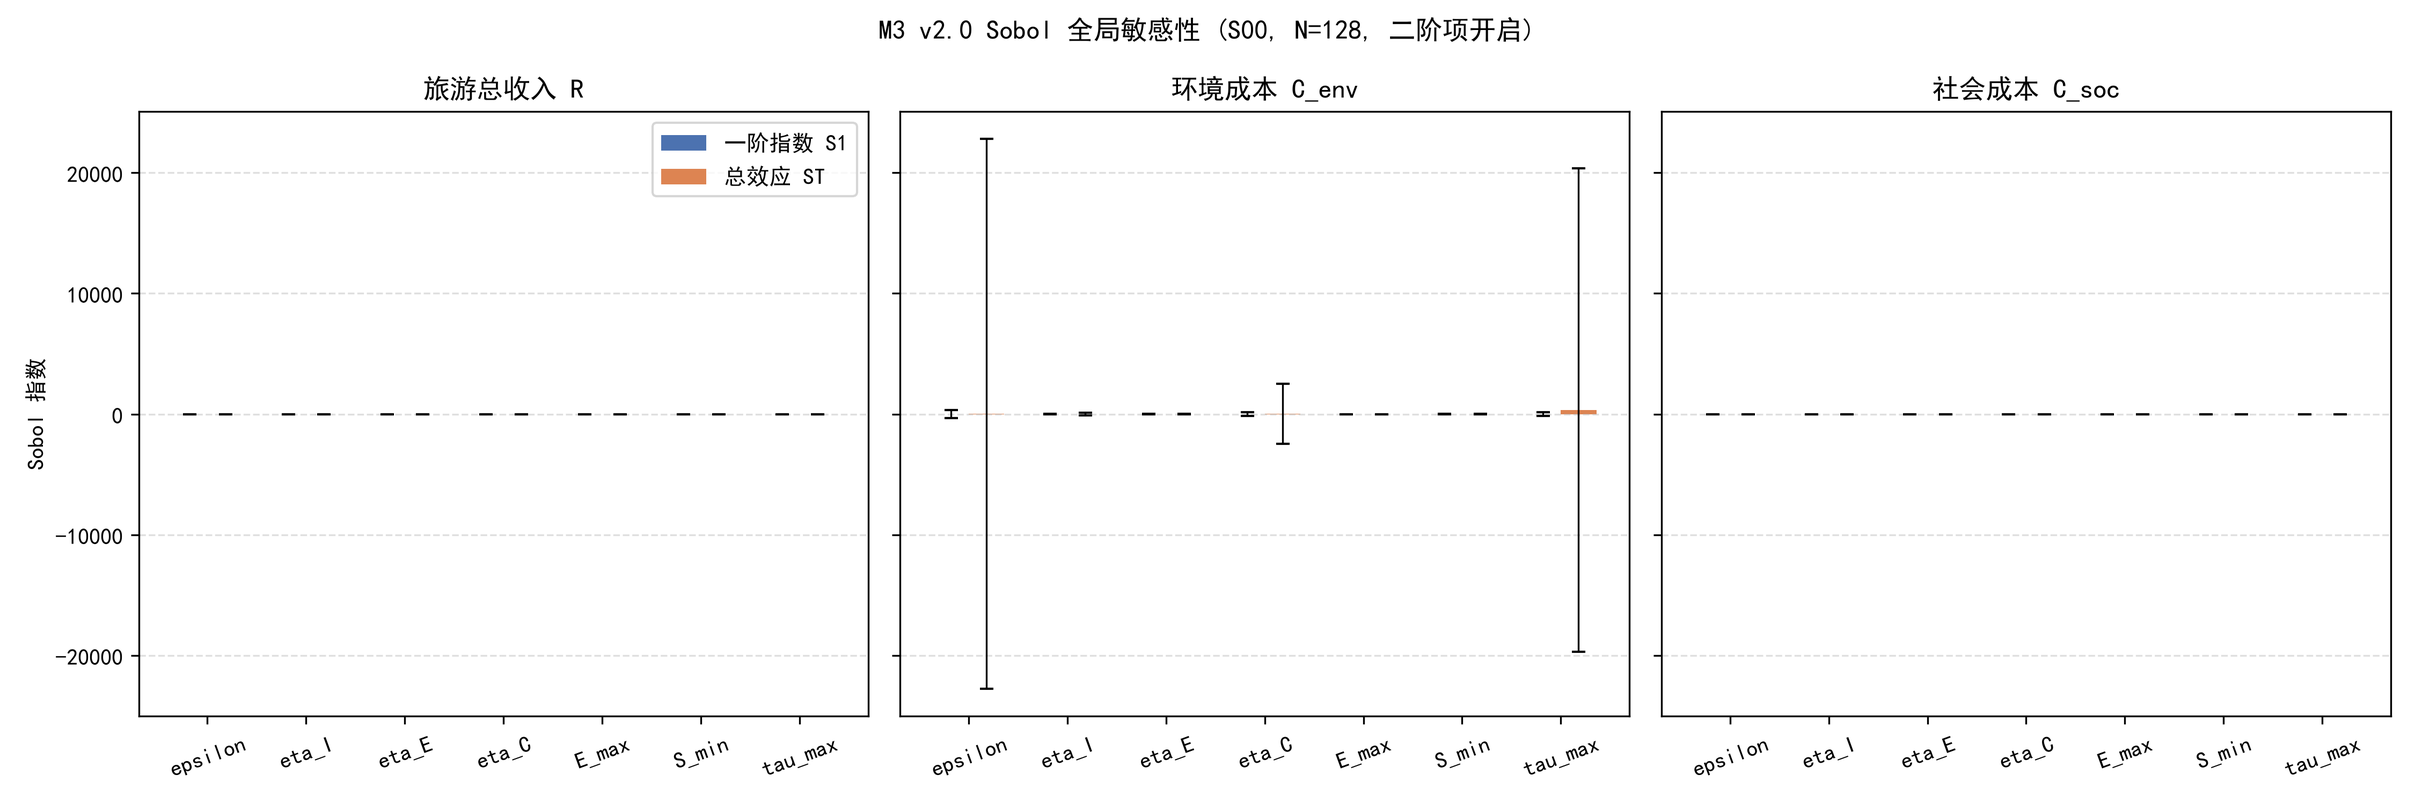
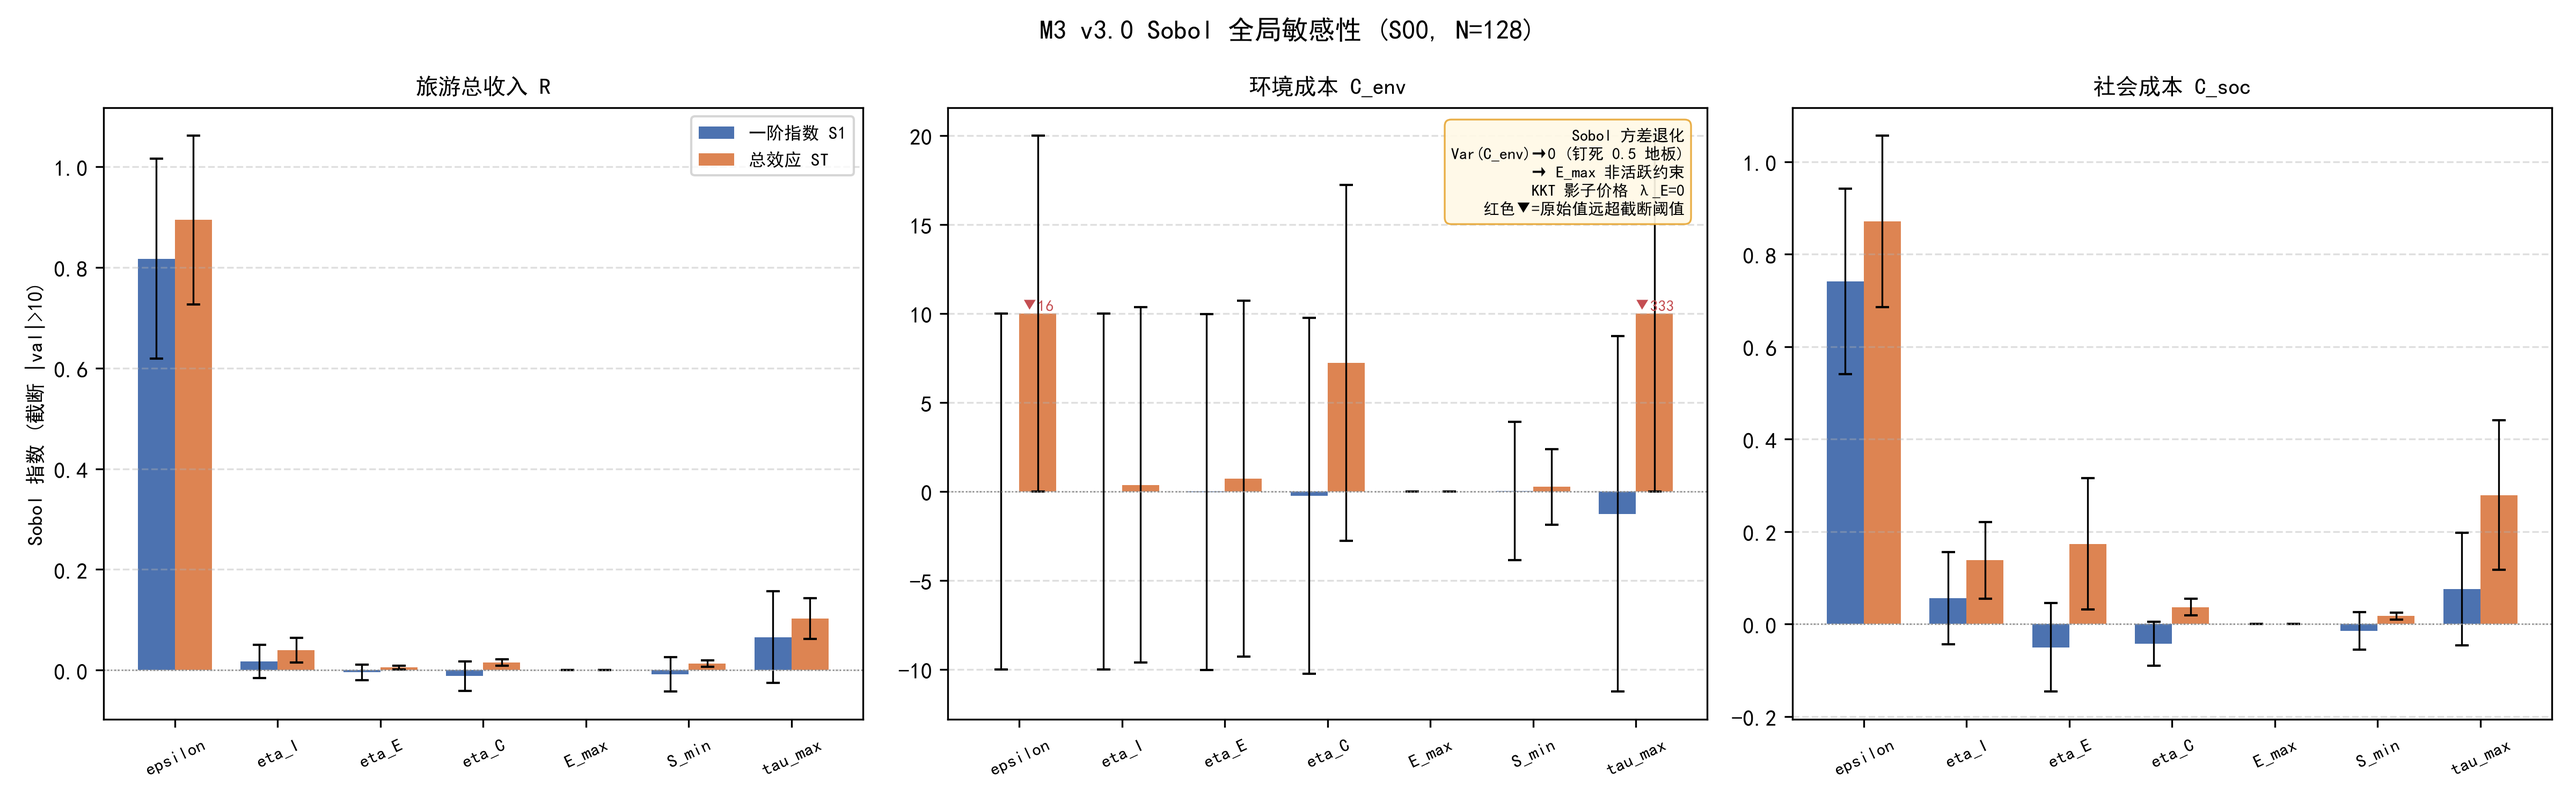
fix: M3 sobol_bar 置信区间同步截断 (tau_max conf 从 3e3 截到 10, 否则 y 轴撑爆)

diff --git a/Code/juno_project/m3_sensitivity.py b/Code/juno_project/m3_sensitivity.py
@@ -374,10 +374,13 @@ def plot_sobol_bar(df: pd.DataFrame, names: List[str]) -> None:
         st_raw = sub["ST"].to_numpy()
         s1c = np.clip(s1_raw, -TRUNC_THRESHOLD, TRUNC_THRESHOLD)
         stc = np.clip(st_raw, -TRUNC_THRESHOLD, TRUNC_THRESHOLD)
+        # 置信区间同样截断 (C_env 的 conf 与指数同源爆炸, 不截会撑爆 y 轴)
+        s1_conf_c = np.clip(sub["S1_conf"].to_numpy(), 0.0, TRUNC_THRESHOLD)
+        st_conf_c = np.clip(sub["ST_conf"].to_numpy(), 0.0, TRUNC_THRESHOLD)
 
-        ax.bar(xpos - width / 2, s1c, width, yerr=sub["S1_conf"].to_numpy(), capsize=3,
+        ax.bar(xpos - width / 2, s1c, width, yerr=s1_conf_c, capsize=3,
                label="一阶指数 S1", color="#4C72B0", error_kw={"elinewidth": 0.8})
-        ax.bar(xpos + width / 2, stc, width, yerr=sub["ST_conf"].to_numpy(), capsize=3,
+        ax.bar(xpos + width / 2, stc, width, yerr=st_conf_c, capsize=3,
                label="总效应 ST", color="#DD8452", error_kw={"elinewidth": 0.8})
         ax.set_xticks(xpos)
         ax.set_xticklabels(names, rotation=25, fontsize=8)
